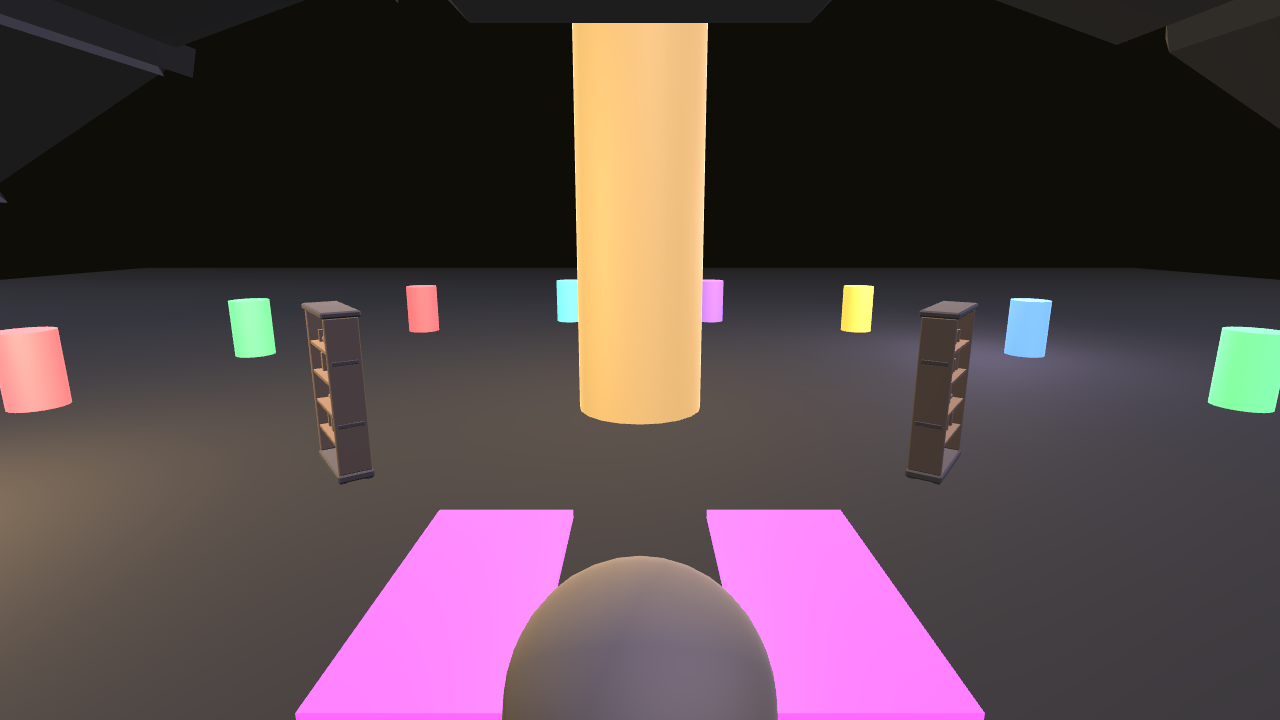
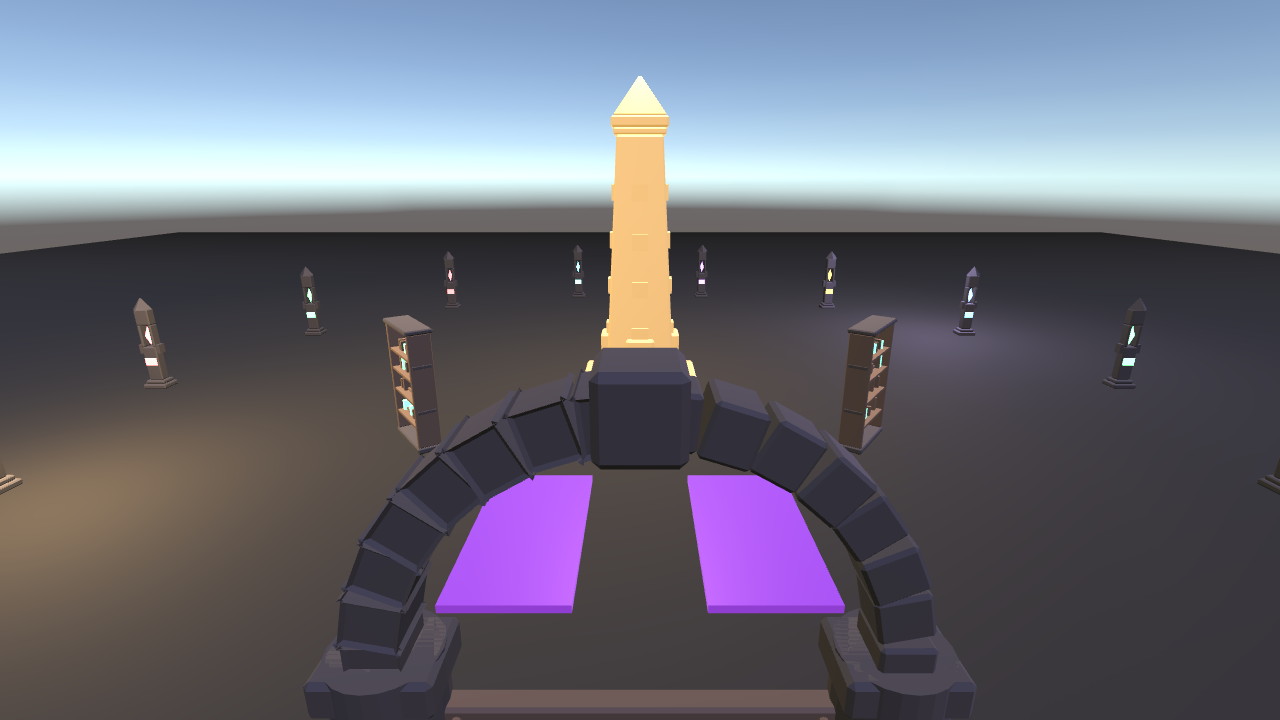
preview: monument obelisk in finale + violet crack shards

diff --git a/kit-feedback.md b/kit-feedback.md
@@ -103,6 +103,25 @@
   한 색 비콘). monument는 반대로 스톤 몸통 + 발광 문양 대비를 살리고 싶으니, 발광면을 별도
   머티리얼 슬롯으로 분리해두면 4080이 그 슬롯만 색을 입힐 수 있어 좋다.
 
+## 라운드 5 (2026-08-15, **3070 응답** — `monument.glb` 납품)
+
+라운드4에서 요청한 피날레 중앙 기념비를 만들어 넣었다. **이걸로 3070 미해결 요청이
+전부 비었다.** 킷 총계 **10,210 tri**(11종, 예산 15,000의 68%), validate-budgets OK.
+
+- [x] **`monument.glb` 완료** — 높이 **정확히 5.0m**(요청 ≈5m), **LOD0 852 tri**(예산 1200),
+  재질 3종, 밑면 2.0×2.0m. 형태: 3단 계단 받침 → 4면 버트레스 + 코너 핀리얼 4개 →
+  **테이퍼 사각 오벨리스크 몸통(4면 각각 문장 4개)** → 발광 칼라 → 코니스 → 피라미디온.
+  요청대로 **사방 대칭**이라 14교단이 둘러싸도 "뒷면"이 없다.
+- **발광면을 별도 슬롯으로 분리했다(라운드4 요청 반영)** — 발광 요소(문장 16개 + 칼라)가
+  **`corrupt_glow` 슬롯에만** 있고, 몸통은 `stone_light`, 받침·관은 `stone_dark`다.
+  order_marker처럼 3슬롯을 전부 override하지 말고 **`corrupt_glow` 슬롯만 복원 광휘 색으로
+  틴트**하면 스톤 몸통 대비가 살아난다.
+- **문장 수는 16개(4면×4)** — 정확히 14개는 사방 대칭으로 배치할 수 없어서, "사방 대칭이
+  좋다"는 요청을 우선했다. 꼭 14가 필요하면 말해달라(예: 한 면만 3개로 줄이는 비대칭안).
+- **기존 조각 무변경** — `PIECES` 끝에 붙여 rng 소비 순서를 보존했다. manifest diff는
+  monument 추가와 총합(9,358→10,210)뿐이다.
+- [ ] **미해결 요청 없음.** 다음 라운드는 4080이 monument·기둥 인게임 확인 후 열어주면 된다.
+
 ## 4080 병렬 작업 (참고, 3070은 무시)
 
 - [x] **H3 왕국 배경(스카이박스) 통합 완료** — 5왕국 전부 까만 void가 발광 모놀리스
